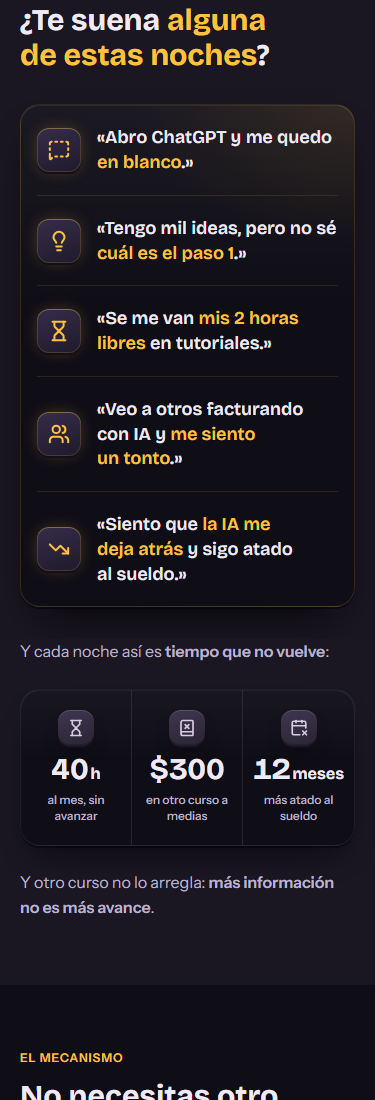
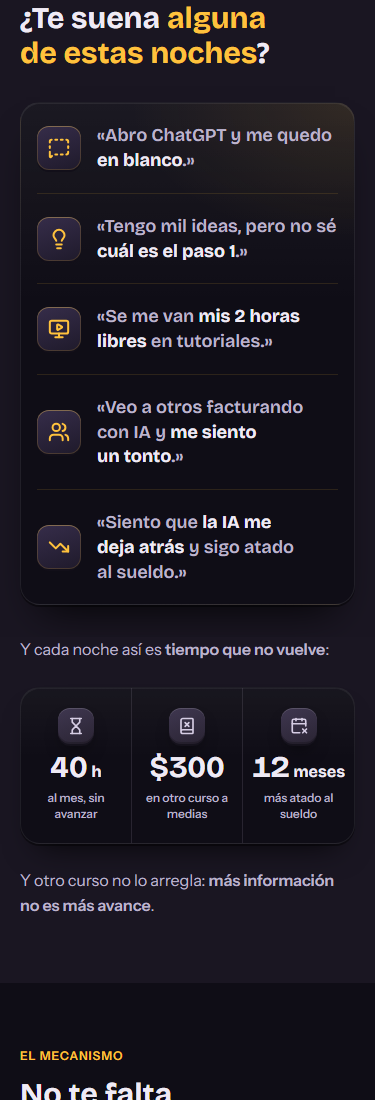
fix(landing): dorado solo para la acción, gancho sin borde, subtítulo con la victoria de hoy

diff --git a/app/page.tsx b/app/page.tsx
@@ -15,6 +15,7 @@ import {
   Mail,
   MessageSquareDashed,
   MessageSquareText,
+  MonitorPlay,
   Moon,
   MousePointerClick,
   Puzzle,
@@ -64,15 +65,15 @@ export default function PaginaDeVentas() {
         appName="EMPRESAI"
         logo={<LogoEmpresai />}
         gancho={
-          <span className="inline-flex items-center gap-2 rounded-full border border-[color-mix(in_oklab,var(--gold)_30%,transparent)] bg-[color-mix(in_oklab,var(--gold)_8%,transparent)] py-1.5 pr-4 pl-1.5 text-[13px] font-semibold text-ink-1">
-            <span className="relieve-noche flex size-7 items-center justify-center rounded-full">
+          <span className="inline-flex items-center gap-2 rounded-[var(--radius-chip)] bg-[color-mix(in_oklab,var(--gold)_8%,transparent)] py-1.5 pr-3 pl-1.5 text-[13px] font-semibold text-ink-1">
+            <span className="relieve-noche flex size-7 items-center justify-center rounded-[var(--radius-chip)]">
               <Moon size={14} fill="currentColor" strokeWidth={0} aria-hidden="true" />
             </span>
             ¿Otra noche en blanco frente a ChatGPT?
           </span>
         }
         h1Marked="De la hoja en blanco a [acento]tu negocio armado[/acento] en 30 días"
-        subtitleMarked="[b]5 minutos por noche:[/b] la IA arma cada pieza por ti. Sin cursos."
+        subtitleMarked="[b]Esta noche, en 5 minutos,[/b] la IA arma tu primera pieza. Sin cursos."
         ctaLabel={CTA_LABEL}
         ctaHref={CTA_HREF}
         socialProof={
@@ -97,11 +98,11 @@ export default function PaginaDeVentas() {
       <Problema
         titulo="¿Te suena [acento]alguna de estas noches[/acento]?"
         preguntas={[
-          { icon: MessageSquareDashed, textoMarked: '«Abro ChatGPT y me quedo [acento]en blanco[/acento].»' },
-          { icon: Lightbulb, textoMarked: '«Tengo mil ideas, pero no sé [acento]cuál es el paso 1[/acento].»' },
-          { icon: Hourglass, textoMarked: '«Se me van [acento]mis 2 horas libres[/acento] en tutoriales.»' },
-          { icon: Users, textoMarked: '«Veo a otros facturando con IA y [acento]me siento un tonto[/acento].»' },
-          { icon: TrendingDown, textoMarked: '«Siento que [acento]la IA me deja atrás[/acento] y sigo atado al sueldo.»' },
+          { icon: MessageSquareDashed, textoMarked: '«Abro ChatGPT y me quedo [b]en blanco[/b].»' },
+          { icon: Lightbulb, textoMarked: '«Tengo mil ideas, pero no sé [b]cuál es el paso 1[/b].»' },
+          { icon: MonitorPlay, textoMarked: '«Se me van [b]mis 2 horas libres[/b] en tutoriales.»' },
+          { icon: Users, textoMarked: '«Veo a otros facturando con IA y [b]me siento un tonto[/b].»' },
+          { icon: TrendingDown, textoMarked: '«Siento que [b]la IA me deja atrás[/b] y sigo atado al sueldo.»' },
         ]}
       />
 
@@ -118,9 +119,9 @@ export default function PaginaDeVentas() {
       />
 
       <Solucion
-        tituloMarked="No necesitas otro curso: necesitas [acento]tu negocio armado[/acento]"
+        tituloMarked="No te falta información: te falta [acento]el paso de hoy[/acento]"
         mecanismo="el Método Pieza a Pieza"
-        bigIdeaMarked="No te falta información: te falta el paso de hoy. Cada día la IA arma [b]una pieza de tu negocio[/b] con las anteriores."
+        bigIdeaMarked="Cada día haces una misión de 5 minutos y la IA arma [b]una pieza de tu negocio[/b] usando las anteriores."
         pasos={[
           { icon: MessageSquareText, titulo: 'Cuenta tu idea', detalle: 'En 1 minuto, aunque sea vaga. La IA la entiende.' },
           { icon: Zap, titulo: 'Haz la misión del día', detalle: '5 minutos desde el celular: una mini lección y la IA trabaja.' },
@@ -173,7 +174,7 @@ export default function PaginaDeVentas() {
           ctaHref: CTA_MENSUAL,
           features: FEATURES_MENSUAL,
         }}
-        microcopyCompra="Pagas seguro por Hotmart · te avisamos antes del primer cobro · cancelas en 1 toque"
+        microcopyCompra="Pagas seguro por Hotmart · 15 días de garantía · te avisamos antes del primer cobro"
       />
 
       <Garantia

diff --git a/components/landing/Problema.tsx b/components/landing/Problema.tsx
@@ -59,7 +59,7 @@ export function Problema({ titulo, preguntas, id }: ProblemaProps) {
               <span aria-hidden="true" className="relieve-noche inline-flex size-11 shrink-0 items-center justify-center rounded-[var(--radius-chip,12px)]">
                 <p.icon size={22} strokeWidth={2.2} />
               </span>
-              <p className="text-pretty text-[18px] font-semibold leading-snug text-[var(--text-primary)] [font-family:var(--font-display)]">
+              <p className="text-pretty text-[18px] font-medium leading-snug text-[var(--text-secondary)] [font-family:var(--font-display)] [&_strong]:font-bold [&_strong]:text-[var(--text-primary)]">
                 <MarkedCopy text={p.textoMarked} />
               </p>
             </motion.li>

diff --git a/app/globals.css b/app/globals.css
@@ -103,8 +103,7 @@ body {
   box-shadow:
     inset 0 1px 0 rgb(255 217 120 / 0.25),
     inset 0 0 0 1px rgb(255 194 61 / 0.18),
-    0 2px 0 #120f19,
-    0 0 18px -4px rgb(255 194 61 / 0.35);
+    0 2px 0 #120f19;
 }
 
 /* Lista de dolores: superficie elevada con un brillo dorado tenue arriba a la derecha. */
@@ -113,7 +112,7 @@ body {
     radial-gradient(320px 200px at 100% 0%, rgb(255 194 61 / 0.1), transparent 70%),
     linear-gradient(180deg, rgb(255 255 255 / 0.05), transparent 40%),
     var(--surface-base);
-  border: 1px solid rgb(255 194 61 / 0.16);
+  border: 1px solid rgb(255 255 255 / 0.08);
   box-shadow:
     inset 0 1px 0 rgb(255 255 255 / 0.07),
     0 2px 0 rgb(0 0 0 / 0.4),

diff --git a/components/landing/Oferta.tsx b/components/landing/Oferta.tsx
@@ -127,7 +127,7 @@ export function Oferta({
             {stack.nota && (
               <>
                 {' · '}
-                <span className="font-semibold text-[var(--text-primary)]">{stack.nota}</span>
+                <span className="font-semibold whitespace-nowrap text-[var(--text-primary)]">{stack.nota}</span>
               </>
             )}
           </motion.p>

diff --git a/components/landing/Agitacion.tsx b/components/landing/Agitacion.tsx
@@ -57,7 +57,7 @@ function CifraQueCuenta({ valor, prefijo = '', sufijo = '' }: { valor: number; p
     <span ref={ref} className="tabular-nums">
       {prefijo}
       <span ref={numeroRef}>{valor}</span>
-      {sufijo && <span className="ml-0.5 text-[16px]">{sufijo}</span>}
+      {sufijo && <span className="ml-1 text-[16px]">{sufijo}</span>}
     </span>
   );
 }

diff --git a/docs/revisiones/landing-veredicto.md b/docs/revisiones/landing-veredicto.md
@@ -1,76 +1,100 @@
-# VEREDICTO revisor-visual — landing (página de ventas EMPRESAI) · re-revisión independiente tras la 2.ª tanda de correcciones
-Fecha: 2026-10-02 11:00
+# VEREDICTO revisor-visual — landing (página de ventas EMPRESAI) · re-revisión tras el nuevo hero, el nuevo §2 y la poda de §3/§7
+Fecha: 2026-10-02 13:00
 Screenshot: docs/revisiones/landing-375.png
-Usabilidad: 37/40
-Craft: 18/20
-Copy (si vende): 17/20
-Copy: 17/20
+Usabilidad: 36/40
+Craft: 17/20
+Copy (si vende): 18/20
+Copy: 18/20
 Fidelidad (si hubo referencia): N-A
 Veredicto: LISTA
-Top defectos: (1) §6 en el ancla, "$79.99" queda huérfano en una 2.ª línea centrada · (2) §6 el microcopy bajo los planes no nombra la garantía · (3) §3 las 2 frases puente son el único texto plano sin tratamiento · (4) §3 el sufijo de "12meses" queda pegado al número · (5) pendientes de integridad/operación ya anotados (Entrar, capturas reales, claim de IA, email)
+Top defectos: (1) §2 dorado y halo en los 5 dolores, un desvío de FICHA-ARTE (oro = acción/beneficio, sin glow regado) · (2) §1 la píldora-gancho con borde dorado parece botón y su ficha circular sale del sistema de 12px · (3) el H1 del hero y el H2 de §4 repiten el mismo acento "tu negocio armado"; además "5 minutos por noche" contra "al día" en el resto · (4) el ícono Hourglass se repite en filas contiguas (§2 fila 3 y §3 cifra 40h) · (5) siguen sin corregir: "$79.99" huérfano, garantía ausente del microcopy de compra, "12meses" pegado
 
 ## Detalle
-USABILIDAD 37/40 — h1:4 h2:4 h3:4 h4:4 h5:4 h6:4 h7:4 h8:3 h9:3 h10:3
-CRAFT 18/20 — jerarquía:3 profundidad:4 identidad:4 movimiento:4 encaje:3
-COPY 17/20 — idea:4 especificidad:3 emoción:3 oferta:3 acción:4 (ningún eje ≤2)
-Gate doble: PASA (37/40 ≥ 36 y 18/20 ≥ 16). Gate de copy: PASA (17/20, ningún eje ≤2).
-Gate de carga cognitiva: 0 fallas. Anti-clon: no coincide con "Capítulo" ni con "Umbral". CTA héroe vivo: PASA (≈12:1 · whileTap 0.97 · nunca deshabilitado · 52-56px).
-FICHA-ARTE frente a la captura: la paleta, Bricolage/Instrument, el radio de 20px, el CTA en píldora y los chips de ícono de 12px coinciden en toda la página (franja del hero y sellos incluidos). La firma de la Ruta (camino de nodos) está visible en §4.
-Sub-checks de copy:
-- Message-match: N-A.
-- Garantía nombrada con plazo cerca del CTA de compra: PASA.
+USABILIDAD 36/40 — h1:4 h2:4 h3:4 h4:3 h5:4 h6:4 h7:4 h8:3 h9:3 h10:3
+CRAFT 17/20 — jerarquía:3 profundidad:4 identidad:3 movimiento:4 encaje:3
+COPY 18/20 — idea:4 especificidad:3 emoción:4 oferta:3 acción:4 (ningún eje ≤2)
 
-Qué se verificó en código y captura:
-- **Ancla:** es una línea única. Oferta.tsx l.121 la renderiza sin check y sin "Valor total" cuando el stack tiene 1 línea.
-- **Garantía:** "15 días" queda solo en la condición. Los sellos son "Dinero de vuelta · Solo un correo · Sin preguntas" y el piso legal dice "Reembolso gestionado por Hotmart".
-- **Toque:** las filas del FAQ tienen `active:scale-[0.99]` de 100ms (Faq.tsx l.74) y los puntos del carrusel `active:scale-125` de 100ms (AppPorDentro.tsx l.150).
-- **Camino:** cada paso pinta su segmento, que se dibuja al entrar con `scaleY` 0→1 en 600ms y queda estático con reduced-motion (Solucion.tsx l.98-103). Nada cuelga bajo el nodo 3.
-- **Chips:** los de la franja del hero y los sellos tienen radio de 12px.
+Gates:
+- Gate doble: PASA, pero justo en el límite (36/40 ≥ 36 y 17/20 ≥ 16). Gate de copy: PASA (18/20).
+- Gate de carga cognitiva: 1 falla, "cero elementos que parezcan interactivos y no hagan nada" (la píldora-gancho, defecto 2). No es sobrecarga crítica.
+- Anti-clon: no coincide con "Capítulo" ni con "Umbral".
+- CTA héroe vivo: PASA (≈12:1 · whileTap 0.97 · nunca deshabilitado · 52-56px · ancho completo).
+- Sub-checks de copy: message-match N-A. La garantía va nombrada con plazo ("Si en 15 días…") en la sección pegada a los planes: PASA.
 
-Qué cambió en la puntuación frente a la pasada anterior (35 · 17 · 17):
-- h4 sube 3→4: cero variantes accidentales de chips y ya no hay check usado para un costo.
-- h5 sube 3→4: el ancla ya no se contradice.
-- Movimiento sube 3→4: las 7 baseline aplicables están en código con reduced-motion.
+FICHA-ARTE frente a la captura (DESVÍO EVIDENTE = defecto top 1):
+- La ficha pide dorado SOLO en CTA, misión, nodo "hoy", dato héroe y botón central. Dice "oro = acción/beneficio · piedra = dolor" y "sin glow regado".
+- §2 pinta en dorado 5 frases de dolor, 5 íconos y el borde de la tarjeta.
+- `.relieve-noche` (globals.css l.100-108) agrega un halo `0 0 18px -4px rgb(255 194 61 / .35)` en 6 fichas (las 5 de §2 + la del gancho).
+- Resultado: en las 2 primeras pantallas hay unos 14 elementos dorados que compiten con el CTA, y el dolor se viste con el color del beneficio.
 
-Por qué h8 queda en 3: la página mide 7672px. "7 días gratis" aparece 4 veces en la oferta (badge y CTA por plan, aceptado por la regla del 19), y hay 4 CTAs con la misma etiqueta. No molesta, pero un ojo entrenado lo nota.
+Qué cambió en la puntuación frente a la pasada anterior (37 · 18 · 17):
+- h4 baja 4→3 por dos cosas:
+  - El dorado ya no significa lo mismo en toda la página.
+  - Vuelven una píldora con borde que parece botón y una ficha circular fuera del sistema.
+- Identidad baja 4→3: el halo regado es la receta anti-IA que la ficha veta fuera de la tarjeta héroe.
+- Emoción sube 3→4: los dolores en voz literal del avatar, entre comillas, más la escena "¿Otra noche en blanco frente a ChatGPT?" trazan 1:1 a FICHA-AVATAR (dolores #1, #2, #4, #5, identidad y momento del día).
+- Profundidad se mantiene en 4: el patrón de puntos del hero y el radial dorado se ven en la captura.
+
+Hallazgos en código:
+- El H1 tiene 11 palabras y supera el `warnCopy('Hero → h1', …, 10)` (Hero.tsx l.56). La excepción está documentada, pero el aviso queda en la consola de desarrollo: subir el tope a 11 en la llamada o dejarlo anotado.
+- Quitar "Reembolso gestionado por Hotmart" no rompe ningún gate: la garantía conserva nombre y plazo, y "Pagas seguro por Hotmart" sigue bajo los planes.
+
+## Juicio del titular (hero)
+| Criterio | ¿Cumple? | Evidencia / qué falta |
+|---|---|---|
+| Dolor urgente | ✅ | El gancho "¿Otra noche en blanco frente a ChatGPT?" es el dolor #1 + el MOMENTO DEL DÍA de la ficha, en pregunta. |
+| Deseo | ✅ | "tu negocio armado en 30 días" es el deseo #2 casi literal ("la estructura de mi empresa armada en 30 días"). |
+| Imagen mental | ⚠ | El antes→después "hoja en blanco → negocio armado" se entiende en una línea. Pero "negocio armado" es abstracto: el H1 anterior daba algo que se ve ("tu primera oferta, hoy, en 5 minutos"). La victoria concreta de esta noche ya no está en el hero. |
+| Detiene el scroll | ✅ | Gancho en píldora + H1 bold de 4 líneas con 3 palabras en acento + demo asomando. La pregunta en 2.ª persona funciona para tráfico frío de TikTok. |
+| Unicidad (sofisticación 4-5) | ⚠ | "negocio … en 30 días" es casi la variante #3 de la propia tabla 4U (Único = 1) y se parece a la competencia de la ficha ("Lanza tu negocio con IA en 7 días"). La diferencia la carga solo "cada pieza" en el subtítulo. Fix: subtítulo "Esta noche, en 5 minutos, la IA arma tu primera pieza. Sin cursos." (12 palabras). Recupera la victoria inmediata y el mecanismo. |
+
+Veredicto del titular: es mejor GANCHO que el anterior (más dolor y más escena) y peor PROMESA ÚNICA (más genérica, menos inmediata). Con el subtítulo propuesto se queda con las dos ventajas.
 
 ## ¿El relieve se ve "no plano ni repetitivo"? (pedido de la dueña)
-- (a) NO PLANO: ✅ CUMPLE. Las 9 secciones con contenido tienen fichas en relieve.
-  - Fichas de color: oro (acción), verde (logro) y piedra (dolor).
-  - Superficies: tarjetas con luz de borde y sombra; secciones que alternan base y elevado.
-  - Elementos destacados: el rayo de 64px en el cierre y los nodos del camino.
-  - Residuo menor: las 2 frases puente de §3 (defecto 3).
-- (b) NO REPETITIVO: ✅ CUMPLE. Cada bloque tiene composición propia: tarjeta-lista (§2), fila de cifras (§3), camino de nodos (§4), comparativa (antes/después), carrusel (§5), ancla en línea + 2 cajas de precio (§6), sello centrado (§7), acordeón (§8) y cierre centrado con ficha (§9). La repetición de copy en la oferta y la garantía ya se corrigió.
+- (a) NO PLANO: ✅ CUMPLE.
+  - §2 ya no se ve apagado: tarjeta con brillo, fichas oscuras con ícono encendido, frases en Bricolage de 18px.
+  - El resto conserva las fichas oro, verde y piedra, el camino de nodos y el rayo del cierre.
+  - El costo: el "encendido" se logró con el color y el halo del beneficio (defecto 1). El mismo volumen se consigue con relieve-piedra + ícono en text-primary + frase clave en blanco 700.
+- (b) NO REPETITIVO: ⚠ CUMPLE CON RESIDUOS NUEVOS.
+  - Las composiciones siguen siendo distintas por sección.
+  - El acento "tu negocio armado" se repite literal en el H1 y en el H2 de §4.
+  - El Hourglass aparece en dos filas seguidas (§2 y §3).
+  - "otro curso / sin cursos" aparece 3 veces en 3 pantallas (subtítulo, remate de §3, H2 de §4).
 
 ## Auditoría de escaneabilidad (mobile 375px)
 | § | Sección | >4 líneas seguidas | Íconos en dolores/beneficios/pasos | "Solo titulares" | Respiro | Cajas/acordeón | Resultado | Qué corregir |
 |---|---|---|---|---|---|---|---|---|
-| 1 | Hero | ✅ no | ✅ franja con 3 chips de 12px | ✅ | ✅ | — | ✅ | — |
-| 2 | Problema | ✅ no | ✅ ficha piedra por pregunta | ✅ | ✅ | ✅ tarjeta-lista | ✅ | — |
-| 3 | Agitación | ✅ no | ✅ 3 cifras con ícono | ✅ | ✅ | ✅ fila en caja | ⚠ | Frases puente en texto plano (defecto 3) y sufijo "meses" pegado (defecto 4) |
-| 4 | Solución | ✅ no | ✅ nodos con ícono y número | ✅ | ✅ | camino + 2 cajas | ✅ | — |
+| 1 | Hero | ✅ no (H1 en 4 líneas a 40px, subtítulo en 2) | ✅ gancho con ficha + franja con 3 chips | ✅ | ✅ | — | ⚠ | Píldora-gancho sin borde, o enlazada a #problema; ficha luna con radio de 12px (defecto 2) |
+| 2 | Problema | ✅ no (cada dolor en 2-3 líneas) | ✅ ficha por dolor | ✅ | ✅ | ✅ tarjeta-lista | ❌ | Dorado y halo en los dolores, desvío de la ficha (defecto 1); Hourglass repetido con §3 (defecto 4) |
+| 3 | Agitación | ✅ no | ✅ 3 cifras con ícono | ✅ (la frase puente presenta las cifras) | ✅ | ✅ fila en caja | ⚠ | "12meses" pegado: `ml-1` en el sufijo |
+| 4 | Solución | ✅ no | ✅ nodos con ícono y número | ✅ | ✅ | camino + 2 cajas | ⚠ | El H2 repite el acento del H1 (defecto 3) |
 | 5 | App por dentro | ✅ no | n/a | ✅ | ✅ | carrusel manual con puntos | ✅ | — |
-| 6 | Oferta | ✅ no | ✅ checks custom | ✅ | ✅ | ✅ ancla + 2 planes en cajas | ⚠ | "$79.99" huérfano en el ancla (defecto 1) y garantía ausente del bloque de compra (defecto 2) |
+| 6 | Oferta | ✅ no | ✅ checks custom | ✅ | ✅ | ✅ ancla + 2 planes en cajas | ⚠ | "$79.99" huérfano en el ancla; sumar la garantía al microcopy de compra |
 | 7 | Garantía | ✅ no (condición en 2 líneas) | ✅ escudo + 3 sellos | ✅ | ✅ | ✅ caja con hairline | ✅ | — |
 | 8 | FAQ | ✅ no | ✅ ficha por objeción | ✅ | ✅ | ✅ acordeón (1.º abierto) | ✅ | — |
-| 9 | CTA final + PS | ✅ PS en 4 líneas, sin itálica | ✅ rayo en relieve de 64px | ✅ | ✅ | — | ✅ | — |
-| 10 | Footer | ✅ | n/a | ✅ | ✅ | — | ✅ | Email provisional: decisión ya tomada, no se puntúa |
+| 9 | CTA final + PS | ✅ PS en 4 líneas | ✅ rayo en relieve de 64px | ✅ | ✅ | — | ✅ | — |
+| 10 | Footer | ✅ | n/a | ✅ | ✅ | — | ✅ | Email provisional: decisión ya tomada |
 
-## Top defectos (priorizados — NO bloquean el gate; afinado)
-1. **[§6 línea de ancla, bajo el título de la oferta]**
-   - Problema: "Mes a mes: $̶1̶2̶0̶ al año · Con el anual:" ocupa la línea 1 y "$79.99" queda solo y centrado en la línea 2.
-   - Fix: envolver "Con el anual: $79.99" en `whitespace-nowrap`, o acortar a "Mes a mes: $̶1̶2̶0̶/año · Anual: $79.99".
-2. **[§6 microcopy bajo los planes]**
-   - Problema: el bloque de compra no nombra la garantía. Solo aparece en la sección siguiente, y por eso copy-oferta=3.
-   - Fix: sumar "· Garantía de la Primera Oferta, 15 días" al final del microcopy.
-3. **[§3 frases puente: "A las 7 de la noche…" y "Y otro curso no lo arregla…"]**
-   - Problema: son el único texto de la página sin tratamiento.
-   - Fix: la escena de las 7 PM como cita con borde izquierdo piedra y una ficha Moon de 36px.
-4. **[§3 cifra "12meses"]**
-   - Problema: el sufijo `ml-0.5` queda pegado al número.
-   - Fix: `ml-1` en el sufijo (también vale para "40h").
-5. **[Pendientes anotados, fuera de esta pantalla]**
-   - "Entrar" en el header cuando exista /login.
-   - Capturas reales del carrusel (Sesión 5).
-   - Verificar con el proveedor el claim "no se usa para entrenar IA".
-   - Email de soporte con el dominio propio.
+## Top defectos (priorizados)
+1. **[§2 Problema: frases, fichas y tarjeta]** Desvío evidente de FICHA-ARTE.
+   - Problema: 5 frases de dolor en `[acento]` dorado, íconos dorados con halo (`.relieve-noche`) y borde dorado en `.tarjeta-dolor`. El dolor se viste del color del beneficio, el CTA pierde protagonismo y vuelve el glow que la ficha veta.
+   - Fix: en page.tsx l.100-104, cambiar `[acento]` por `[b]` en blanco 700. Fichas en `relieve-piedra` sin halo, con ícono en text-primary. Borde de la tarjeta en blanco al 7%. El dorado queda solo en el título "alguna de estas noches".
+2. **[§1 píldora-gancho sobre el H1]** Parece interactiva y no hace nada (gate cognitivo).
+   - Problema: es una píldora con borde dorado al 30%, el formato típico de "badge anuncio" tocable. Su ficha luna es `rounded-full`, fuera del sistema de 12px que se acaba de unificar.
+   - Fix: quitar el borde y dejar solo el fondo al 8% con la ficha de 12px, o volverla un enlace real a `#problema`, con whileTap.
+3. **[H1 del hero + H2 de §4 + subtítulo]** Repetición y promesa inconsistente.
+   - Problema: el acento "tu negocio armado" aparece literal en los dos titulares. "5 minutos por noche" choca con "5 minutos al día" del plan y de los pasos.
+   - Fix: §4 H2 → "No te falta información: te falta [el paso de hoy]" (la Big Idea sube a título; el párrafo empieza en "Cada día la IA arma…"). Subtítulo del hero → "Esta noche, en 5 minutos, la IA arma tu primera pieza. Sin cursos." Unificar "al día" en el resto.
+4. **[§2 fila 3 + §3 cifra 40h]**
+   - Problema: el mismo ícono Hourglass aparece en dos bloques contiguos.
+   - Fix: en §2 usar `MonitorPlay` o `Clock4` ("tutoriales").
+5. **[Arrastrados de la pasada anterior, siguen visibles]**
+   - §6: "$79.99" solo en la 2.ª línea del ancla → `whitespace-nowrap` en "Con el anual: $79.99".
+   - §6: el microcopy de compra no nombra la garantía → sumar "· Garantía de la Primera Oferta, 15 días".
+   - §3: "12meses" pegado → `ml-1`.
+
+## Pendientes anotados (no puntúan)
+- "Entrar" cuando exista /login.
+- Capturas reales del carrusel (Sesión 5).
+- Verificar el claim "no se usa para entrenar IA" con el proveedor.
+- Email de soporte con el dominio propio.

diff --git a/docs/copy/landing.md b/docs/copy/landing.md
@@ -29,19 +29,19 @@
 ## 1. HERO (pulido 2026-10-02 a pedido de la dueña: el titular anterior no nombraba el dolor urgente ni dibujaba una escena)
 - gancho (escena del dolor #1, MOMENTO DEL DÍA — frena el scroll): `¿Otra noche en blanco frente a ChatGPT?` con ficha luna
 - h1: `De la hoja en blanco a [acento]tu negocio armado[/acento] en 30 días` (11 pal. contando "de/la") — imagen antes→después en una línea: dolor #1 (hoja en blanco) → deseo #2 (empresa armada en 30 días). 4 U's: Útil 3 · Urgente 2 (el gancho) · Ultra-específico 3 · Único 2 = 10/12
-- subtítulo: `[b]5 minutos por noche:[/b] la IA arma cada pieza por ti. Sin cursos.` (13) — deseo #1 + mecanismo + objeción "otro curso"
+- subtítulo: `[b]Esta noche, en 5 minutos,[/b] la IA arma tu primera pieza. Sin cursos.` (12) — recupera la victoria concreta de HOY (el H1 da el destino a 30 días)
 - titular anterior (descartado): `Hoy, en 5 minutos, la IA arma tu primera oferta` — "oferta" es jerga de marketer; no tocaba el dolor ni el deseo grande
 - CTA: `Armar mi primera pieza gratis` → /onboarding
 - franja día-1: `7 días gratis · 15 días de garantía · cancelas en 1 toque` (jerarquía día-1: garantía; SIN contador)
 - visual: mini-demo honesto de la misión (nivel 2 de fidelidad del 19) hasta tener captura real
 
-## 2. PROBLEMA (dolores en la VOZ LITERAL de Carlos, ficha §Dolores — rediseño 2026-10-02)
+## 2. PROBLEMA (dolores en la VOZ LITERAL de Carlos, ficha §Dolores — rediseño 2026-10-02; frase clave en BLANCO bold — el dorado queda para la acción)
 - título: `¿Te suena [acento]alguna de estas noches[/acento]?`
-- `«Abro ChatGPT y me quedo [acento]en blanco[/acento].»` — dolor #1
-- `«Tengo mil ideas, pero no sé [acento]cuál es el paso 1[/acento].»` — identidad
-- `«Se me van [acento]mis 2 horas libres[/acento] en tutoriales.»` — dolor #2
-- `«Veo a otros facturando con IA y [acento]me siento un tonto[/acento].»` — dolor #4 (disparador de compra)
-- `«Siento que [acento]la IA me deja atrás[/acento] y sigo atado al sueldo.»` — dolor #5 (identidad)
+- `«Abro ChatGPT y me quedo [b]en blanco[/b].»` — dolor #1
+- `«Tengo mil ideas, pero no sé [b]cuál es el paso 1[/b].»` — identidad
+- `«Se me van [b]mis 2 horas libres[/b] en tutoriales.»` — dolor #2
+- `«Veo a otros facturando con IA y [b]me siento un tonto[/b].»` — dolor #4 (disparador de compra)
+- `«Siento que [b]la IA me deja atrás[/b] y sigo atado al sueldo.»` — dolor #5 (identidad)
 
 ## 3. AGITACIÓN (costo de la inacción de la ficha, en formato ESCANEABLE — elevación 2026-09-30)
 - frase puente (la escena ya vive en el gancho del hero y en §2): `Y cada noche así es [b]tiempo que no vuelve[/b]:`
@@ -52,9 +52,9 @@
 - remate: `Y otro curso no lo arregla: [b]más información no es más avance[/b].`
 
 ## 4. SOLUCIÓN (mecanismo bautizado — Constitución 4b)
-- título: `No necesitas otro curso: necesitas [acento]tu negocio armado[/acento]` (8)
+- título: `No te falta información: te falta [acento]el paso de hoy[/acento]` (8) — el acento del H1 ya es "tu negocio armado"; aquí se nombra la causa (Big Idea)
 - mecanismo: `el Método Pieza a Pieza`
-- big idea: `No te falta información: te falta el paso de hoy. Cada día la IA arma [b]una pieza de tu negocio[/b] con las anteriores.`
+- big idea: `Cada día haces una misión de 5 minutos y la IA arma [b]una pieza de tu negocio[/b] usando las anteriores.`
 - pasos: `Cuenta tu idea` / `En 1 minuto, aunque sea vaga. La IA la entiende.` · `Haz la misión del día` / `5 minutos desde el celular: una mini lección y la IA trabaja.` · `Suma una pieza` / `Tu oferta, tu nombre, tus textos: todo queda en Mi Empresa.`
 - antes: `Hoja en blanco, 40 prompts guardados y ningún paso claro.` · después (día 30): `Oferta, nombre, precio y textos de venta listos para lanzar.`
 

diff --git a/ESTADO.md b/ESTADO.md
@@ -135,7 +135,7 @@ Monetización: suscripción (mensual + anual) con prueba corta. Venta por Hotmar
 - Verificar en Sesión 6: período gratuito Hotmart para app externa · checkout real (medios de pago) · términos de datos del proveedor de IA.
 
 ## Problemas conocidos
-- landing veredicto caducado por cambios de copy/diseño pedidos por la dueña (2026-10-02): capturas nuevas landing-375-parte-0…7.png (375x7805); re-veredicto del revisor EN CURSO.
+- landing veredicto: 1ª nota tras el nuevo titular = LISTA 36/40·17/20·18/20 con defectos; corregidos (dolores en blanco bold, sin halo, gancho sin borde, subtítulo "Esta noche, en 5 minutos…", §4 "el paso de hoy") y re-capturados (375x7803); re-veredicto EN CURSO (2026-10-02).
 - Garantía: decidida INCONDICIONAL (15 días, "o no es para ti") — coherente con sellos y /reembolsos (2026-10-02).
 - FICHA-MODELO.md en BORRADOR (modelo: Coursiv). Falta 2ª señal de revenue (Meta Ads Library / TrustMRR) y el plano del flujo de entrada de Coursiv (Meta Ads Library y Mobbin requieren navegador; se intentará en Sesión 2 con el navegador integrado). No bloquea diseño/arquitectura.
 - audit-conversion.sh: se excluyó `plantillas-codigo/` en scripts/lib-conversion.mjs (mezclaba tokens de plantilla con los del proyecto → contrastes falsos). Hallazgos restantes son FALSOS POSITIVOS sobre código del kit (cuenta clases/comentarios como copy; no detecta hairline/radial armados con strings concatenados; "animate" como voseo; ✓ en un comentario). Verificado visualmente y por el revisor. Antes: escaneaba `plantillas-codigo/` (plantillas de referencia del SO, no son la app) → sus hallazgos ahí son ruido. Al construir, juzgar solo los hallazgos en los archivos de la app.
